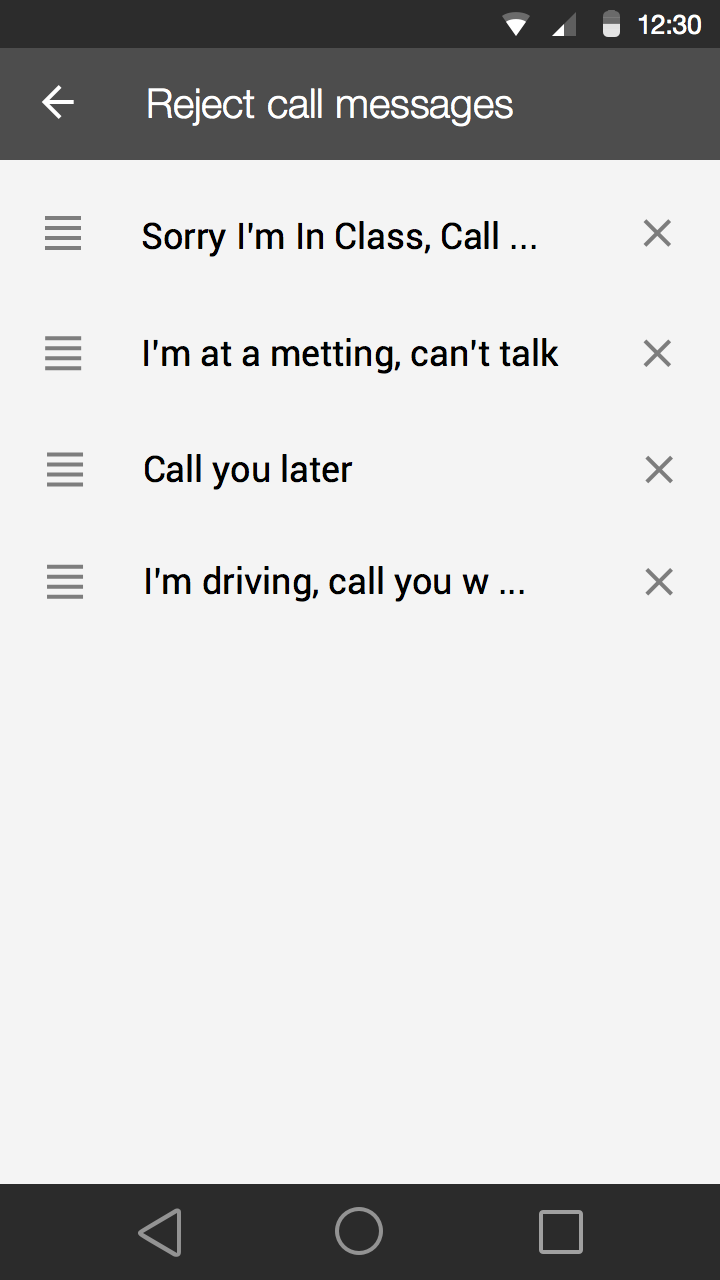
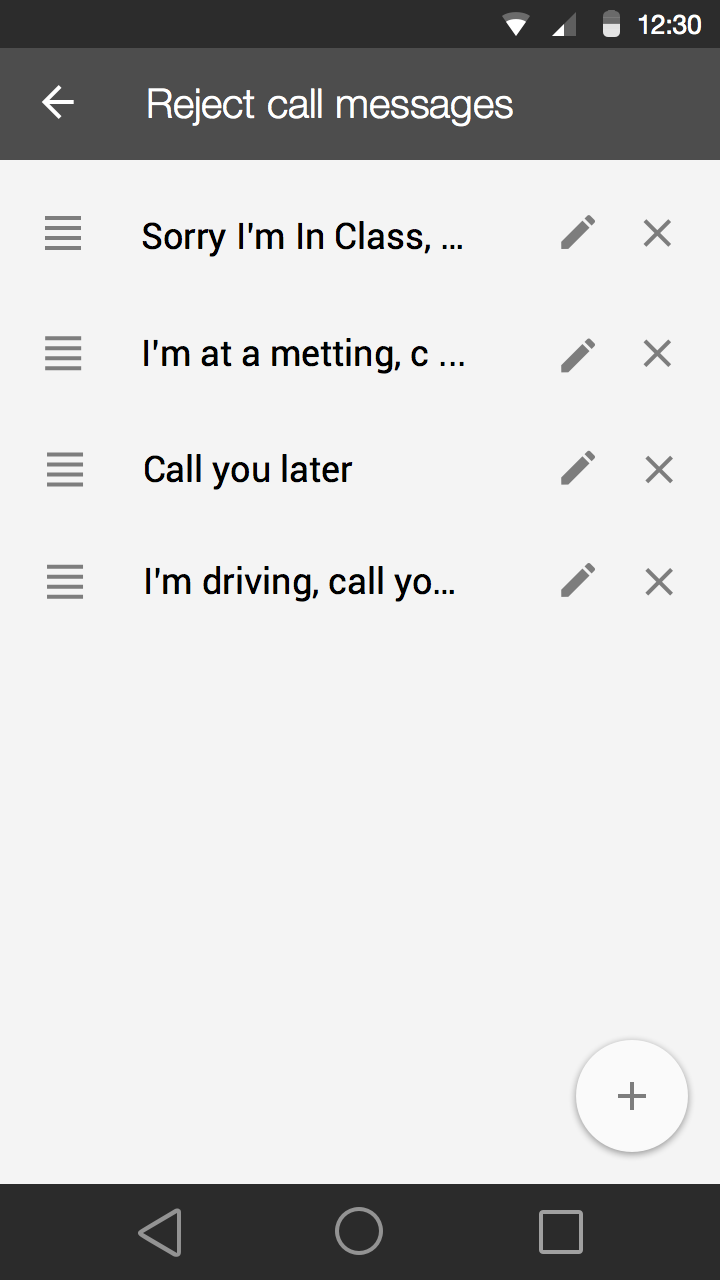
Add more mockup panels

diff --git a/doc/storyboard/ProfileScrollCallMessagesEdit.html b/doc/storyboard/ProfileScrollCallMessagesEdit.html
@@ -10,17 +10,14 @@
 			<center>
 				<div>
 					<div id="center">
-						<img id="centerIMG"src="img/User_profile_scrollNameEdit.png">
-						<a href="ProfileScroll.html"><div class="highlight" style="position:absolute;top: 290px;left: 82px;width: 100px;height: 40px;"></div></a>
-						<a href="ProfileScroll.html"><div class="highlight" style="position:absolute;top: 290px;left: 216px;width: 100px;height: 40px;"></div></a>
-
+						<img id="centerIMG"src="img/Contacts_Details_filesRejectCallEdit.png">
+						<a href="ProfileScrollCallMessages.html"><div class="highlight" style="position:absolute;top: 290px;left: 82px;width: 100px;height: 40px;"></div></a>
+						<a href="ProfileScrollCallMessages.html"><div class="highlight" style="position:absolute;top: 290px;left: 216px;width: 100px;height: 40px;"></div></a>
 					</div>
 					<div id="text"><h1>Tox Android Application Mockup</h1></div>
-					<a href="Profile.html" style="color:blue;">Scroll Up!</a>
 					<input id="checkbox" type="checkbox"  checked>Highlight Touch Spots<br>
 				</div>
 			</center>
-			
 		</div>
 	</body>
 	<script type="text/javascript">

diff --git a/doc/storyboard/ProfileScrollCallMessagesDelete.html b/doc/storyboard/ProfileScrollCallMessagesDelete.html
@@ -10,17 +10,13 @@
 			<center>
 				<div>
 					<div id="center">
-						<img id="centerIMG"src="img/User_profile_scrollNameEdit.png">
-						<a href="ProfileScroll.html"><div class="highlight" style="position:absolute;top: 290px;left: 82px;width: 100px;height: 40px;"></div></a>
-						<a href="ProfileScroll.html"><div class="highlight" style="position:absolute;top: 290px;left: 216px;width: 100px;height: 40px;"></div></a>
-
+						<img id="centerIMG"src="img/Contacts_Details_filesRejectCallDelete.png">
+						<a href="ProfileScroll.html"><div class="highlight" style="position:absolute;top: 40px;left: 14px;width: 30px;height: 30px;"></div></a>
 					</div>
 					<div id="text"><h1>Tox Android Application Mockup</h1></div>
-					<a href="Profile.html" style="color:blue;">Scroll Up!</a>
 					<input id="checkbox" type="checkbox"  checked>Highlight Touch Spots<br>
 				</div>
 			</center>
-			
 		</div>
 	</body>
 	<script type="text/javascript">

diff --git a/doc/storyboard/ProfileScrollCallMessages.html b/doc/storyboard/ProfileScrollCallMessages.html
@@ -10,6 +10,9 @@
 			<center>
 				<div>
 					<div id="center">
+						<a href="ProfileScroll.html"><div class="highlight" style="position:absolute;top: 40px;left: 14px;width: 30px;height: 30px;"></div></a>
+						<a href="ProfileScrollCallMessagesEdit.html"><div class="highlight" style="position:absolute;top: 245px;left: 305px;width: 30px;height: 30px;"></div></a>
+						<a href="ProfileScrollCallMessagesDelete.html"><div class="highlight" style="position:absolute;top: 305px;left: 355px;width: 30px;height: 30px;"></div></a>
 						<img id="centerIMG"src="img/Contacts_Details_filesRejectCall.png">
 					</div>
 					<div id="text"><h1>Tox Android Application Mockup</h1></div>

diff --git a/doc/storyboard/ProfileScrollPromptStatus.html b/doc/storyboard/ProfileScrollPromptStatus.html
@@ -11,6 +11,8 @@
 				<div>
 					<div id="center">
 						<img id="centerIMG"src="img/User_profile_scrollStatusMessage.png">
+						<a href="ProfileScroll.html"><div class="highlight" style="position:absolute;top: 290px;left: 82px;width: 100px;height: 40px;"></div></a>
+						<a href="ProfileScroll.html"><div class="highlight" style="position:absolute;top: 290px;left: 216px;width: 100px;height: 40px;"></div></a>
 					</div>
 					<div id="text"><h1>Tox Android Application Mockup</h1></div>
 					<a href="Profile.html" style="color:blue;">Scroll Up!</a>

diff --git a/doc/storyboard/ProfileScrollPrompt.html b/doc/storyboard/ProfileScrollPrompt.html
@@ -11,6 +11,8 @@
 				<div>
 					<div id="center">
 						<img id="centerIMG"src="img/User_profile_scrollPrompt.png">
+						<a href="ProfileScroll.html"><div class="highlight" style="position:absolute;top: 345px;left: 82px;width: 100px;height: 40px;"></div></a>
+						<a href="ProfileScroll.html"><div class="highlight" style="position:absolute;top: 345px;left: 216px;width: 100px;height: 40px;"></div></a>
 					</div>
 					<div id="text"><h1>Tox Android Application Mockup</h1></div>
 					<a href="Profile.html" style="color:blue;">Scroll Up!</a>
